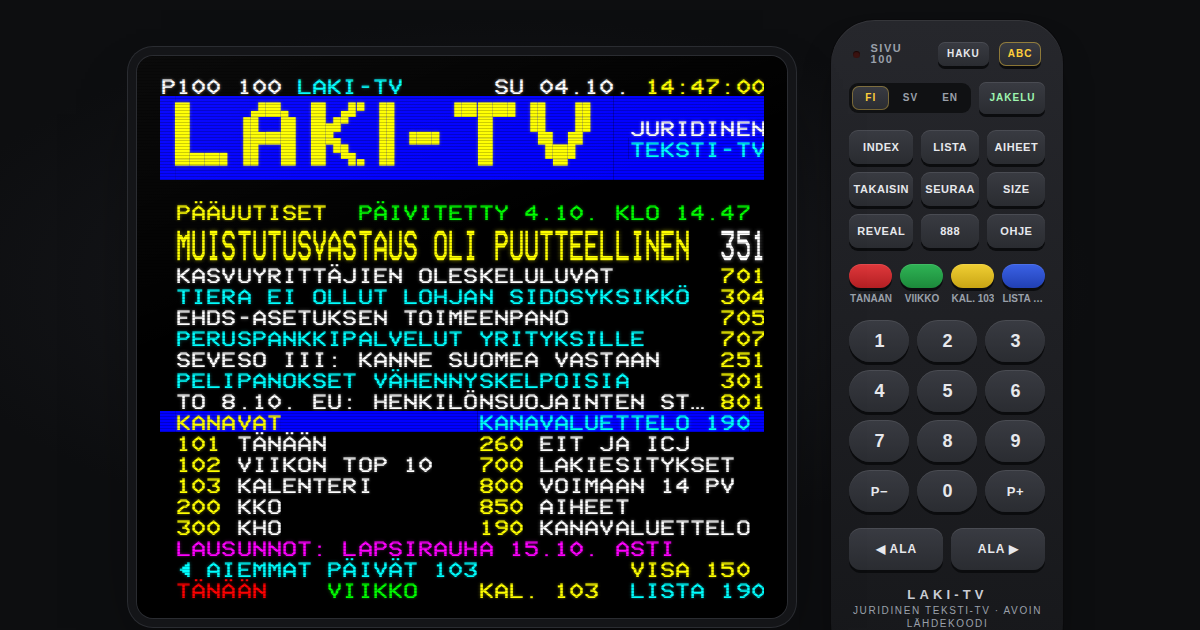
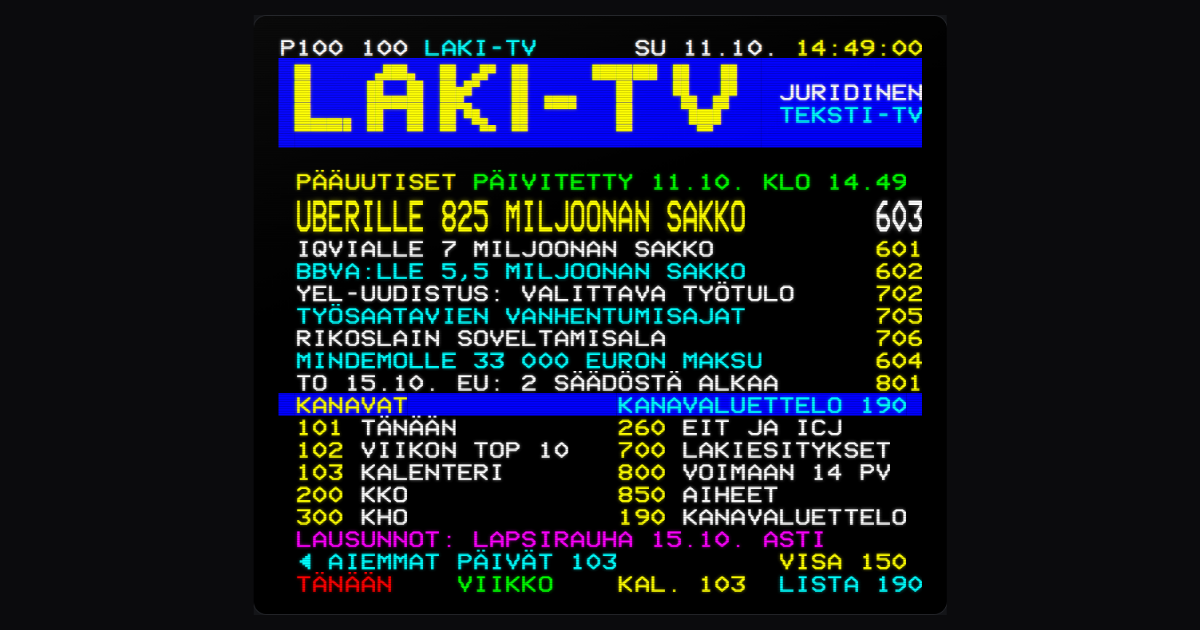
Kaukosäädin, kuvake ja jakokuva

diff --git a/tools/assets.py b/tools/assets.py
@@ -53,14 +53,29 @@ def main():
                 pg.set_content('<!doctype html><html><body style="margin:0;background:transparent">' + icon_svg(0).replace('viewBox="0 0 64 64"', f'viewBox="0 0 64 64" width="{size}" height="{size}"') + "</body></html>")
                 pg.locator("svg").screenshot(path=os.path.join(a.out, f"icon-{size}.png"), omit_background=True)
                 pg.close()
-        pg = b.new_page(viewport={"width": 1200, "height": 630})
+        # Jakokuva: pelkkä sivun 100 ruutu keskellä (ei kaukosäädintä eikä tunnusta)
+        pg = b.new_page(viewport={"width": 1280, "height": 820})
         t = stamp_of(a.page)
         pg.clock.set_fixed_time(t.replace(second=0))
         pg.goto("file://" + os.path.abspath(a.page) + "#p100")
         pg.wait_for_timeout(900)
         pg.evaluate("document.querySelectorAll('*').forEach(e => { const s = getComputedStyle(e); if (s.animationName !== 'none') e.style.animation = 'none'; })")
-        pg.screenshot(path=os.path.join(a.out, "og.png"), clip={"x": 0, "y": 0, "width": 1200, "height": 630})
+        tv_png = os.path.join(a.out, "_tv.png")
+        pg.locator("#tv").screenshot(path=tv_png)
+        pg.close()
+        comp = ("<!doctype html><html><body style='margin:0;width:1200px;height:630px;background:#0b0b0d;position:relative;overflow:hidden'>"
+                "<img src='file://" + os.path.abspath(tv_png) + "' style='position:absolute;left:50%;top:50%;height:600px;transform:translate(-50%,-50%)'></body></html>")
+        comp_path = os.path.join(a.out, "_og.html")
+        open(comp_path, "w", encoding="utf-8").write(comp)
+        pg = b.new_page(viewport={"width": 1200, "height": 630})
+        pg.goto("file://" + os.path.abspath(comp_path)); pg.wait_for_timeout(300)
+        pg.screenshot(path=os.path.join(a.out, "og.png"))
         b.close()
+        for tmp in (tv_png, comp_path):
+            try:
+                os.remove(tmp)
+            except OSError:
+                pass
     for n in (["og.png"] if a.og_only else ["icon.svg", "icon-192.png", "icon-512.png", "og.png"]):
         print(f"{n}: {os.path.getsize(os.path.join(a.out, n)) // 1024} kt")
 

diff --git a/README.md b/README.md
@@ -1,3 +1,5 @@
+<p align="center"><img src="assets/tunnus.svg" alt="LAKI-TV – juridinen teksti-TV" width="340"></p>
+
 # LAKI-TV
 
 **Juridinen teksti-TV.** Suomen oikeuselämän tärkeimmät uudet asiat – korkeimpien oikeuksien ennakkopäätökset, EU-tuomioistuimen ja EIT:n ratkaisut, laillisuusvalvojien päätökset, hallituksen esitykset, lausuntokierrokset ja voimaan tulevat lait – 1980-luvun teksti-TV:n muodossa, kolmella kielellä (suomi, ruotsi, englanti), päivittyen kahdesti päivässä.
